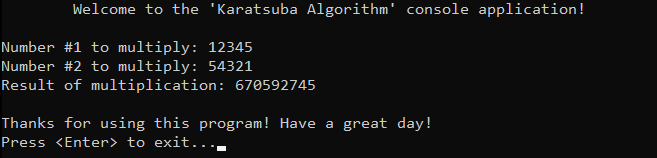
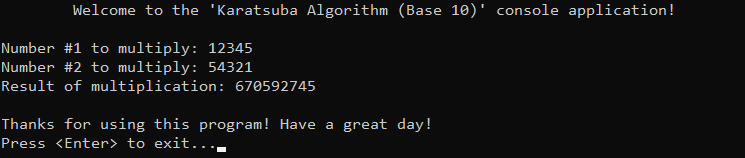
Add in 'KaratsubaAlgorithm': walkthrough, base 10 mention.

diff --git a/Algorithms/DivideAndConquer/KaratsubaAlgorithm/Source/Main.cpp b/Algorithms/DivideAndConquer/KaratsubaAlgorithm/Source/Main.cpp
@@ -1,4 +1,4 @@
-// Karatsuba Algorithm
+// Karatsuba Algorithm (Base 10)
 // by vezzolter
 // September 16, 2024
 //
@@ -13,7 +13,7 @@
 
 int main() {
 	// Greet
-	std::cout << "\tWelcome to the 'Karatsuba Algorithm' console application!\n\n";
+	std::cout << "\tWelcome to the 'Karatsuba Algorithm (Base 10)' console application!\n\n";
 
 	// Specify numbers
 	std::cout << "Number #1 to multiply: ";

diff --git a/Algorithms/DivideAndConquer/KaratsubaAlgorithm/Include/KaratsubaAlgorithm.h b/Algorithms/DivideAndConquer/KaratsubaAlgorithm/Include/KaratsubaAlgorithm.h
@@ -1,4 +1,4 @@
-// Header file for Karatsuba algorithm
+// Header file for Karatsuba algorithm (Base 10)
 // by vezzolter
 // September 16, 2024
 

diff --git a/Algorithms/DivideAndConquer/KaratsubaAlgorithm/Source/KaratsubaAlgorithm.cpp b/Algorithms/DivideAndConquer/KaratsubaAlgorithm/Source/KaratsubaAlgorithm.cpp
@@ -1,4 +1,4 @@
-// Source file for Karatsuba algorithm
+// Source file for Karatsuba algorithm (Base 10)
 // by vezzolter
 // September 16, 2024
 

diff --git a/Algorithms/DivideAndConquer/KaratsubaAlgorithm/KaratsubaAlgorithm.md b/Algorithms/DivideAndConquer/KaratsubaAlgorithm/KaratsubaAlgorithm.md
@@ -2,7 +2,7 @@
 - [💡 Overview](#-overview)
   - [Introduction](#introduction)
   - [Important Details](#important-details)
-  - [Algorithm Steps](#algorithm-steps)
+  - [Algorithm Steps (Base 10)](#algorithm-steps-base-10)
 - [💻 Implementation](#-implementation)
   - [Design Decisions](#design-decisions)
   - [Complete Implementation](#complete-implementation)
@@ -33,9 +33,10 @@ The **Karatsuba Algorithm** is a multiplication algorithm, known for reducing th
 
 ## Important Details
 1. While Karatsuba is efficient for large numbers, for very large numbers (beyond the capacity of built-in data types), arbitrary precision arithmetic is required to handle numbers with thousands of digits by dynamically managing memory. Alternatively, more advanced algorithms like Schönhage–Strassen may be used for even greater efficiency.
+2. The Karatsuba algorithm can be implemented using different bases, such as binary or decimal, depending on the representation of the numbers. The choice of base primarily affects how the numbers are shifted, although core idea remains. Naturally computers do better those operations via binary, but to illustrate the concept decimal is preferred.
 
 
-## Algorithm Steps
+## Algorithm Steps (Base 10)
 1. If either number (`a` or `b`) is less than 10, return the result of their direct multiplication ($a×b$).
 2. Calculate the number of digits in the larger number and divide it by $2$ to determine where to split the numbers.
 3. Divide both initial numbers (`a` or `b`) into higher-order and lower-order halves via previously computed half.
@@ -50,12 +51,13 @@ The **Karatsuba Algorithm** is a multiplication algorithm, known for reducing th
 
 
 # &#x1F4BB; Implementation
-The program prompts the user to enter two numbers, multiplies them using the Karatsuba Algorithm, and displays the result.
+The program prompts the user to enter two numbers in base $10$, multiplies them using the Karatsuba Algorithm, and displays the result.
 <p align="center"><img src="./Images/Demonstration.png"/></p>
 
 
 ## Design Decisions
 To prioritize simplicity and emphasize algorithm itself, several design decisions were made:
+- Opting for a base $10$ representation of numbers
 - Using the highest possible built-in data type, `unsigned long long`.
 - Limiting the operation only to positive numbers.
 - Assuming valid input values from the user.
@@ -87,7 +89,32 @@ unsigned long long karatsuba(unsigned long long a, unsigned long long b) {
 
 
 ## Detailed Walkthrough 
-Currently in Progress...
+1. The process begins by calling the `karatsuba()` function with two large numbers `a` and `b`. If either number is less than $10$, the algorithm performs the multiplication directly and returns the result. This is the base case of the recursion, which ensures that the numbers are small enough to be multiplied directly.
+```cpp
+  if (a < 10 || b < 10) { return a * b; }
+```
+2. To split the numbers, the algorithm first calculates the number of digits in the larger number, then divides this by 2 to determine the halfway point. This ensures the numbers are split evenly into high-order and low-order halves, allowing the algorithm to handle different-sized inputs uniformly during the recursive breakdown.
+```cpp
+	int digitsInLarger = (countDigits(a) > countDigits(b)) ? countDigits(a) : countDigits(b);
+	int half = digitsInLarger / 2;
+```
+3. Then, both numbers `a` and `b` are now split into their high-order and low-order halves. The high-order half is obtained by dividing the number by $base^{half}$ (base in our case is $10$), which shifts the decimal point left, leaving only the more significant digits. The low-order half is found using the modulo operation, which gives the remainder when dividing by $base^{half}$, effectively isolating the less significant digits.
+```cpp
+	unsigned long long aHighHalf = a / (unsigned long long)pow(10, half); // 123456 / 10^3 = 123
+	unsigned long long aLowHalf = a % (unsigned long long)pow(10, half); // 123456 % 10^3 = 456
+	unsigned long long bHighHalf = b / (unsigned long long)pow(10, half);
+	unsigned long long bLowHalf = b % (unsigned long long)pow(10, half);
+```
+4. The algorithm recursively calculates three key products: `lowPart` and `highPart`, which are the products of the respective halves, and `crossPart`, which is the core of this algorithm. When we expand the brackets, one multiplication produces two required pairs and two redundant ones, which are subtracted to make the equation correct. This approach helps avoid performing four multiplications. In the code implementation, instead of directly multiplying these parts as in traditional multiplication, the algorithm recursively calls itself for each smaller part. This recursive breakdown continues until the numbers are small enough to be multiplied directly (typically, single digits), at which point the actual multiplications are performed. This recursive process is what enables the Karatsuba algorithm to maintain its divide-and-conquer efficiency.
+```cpp
+	unsigned long long lowPart = karatsuba(aLowHalf, bLowHalf);
+	unsigned long long crossPart = karatsuba((aLowHalf + aHighHalf), (bLowHalf + bHighHalf));
+	unsigned long long highPart = karatsuba(aHighHalf, bHighHalf);
+```
+5. After recursively calculating the three parts, the final result is assembled using Karatsuba’s formula. The `highPart` is shifted to the left, placing it in the most significant digits of the final product, by analogue the `crossPart` is shifted into the middle, and `lowPart` is added as-is, as it already represent the least significant digits. As mentioned in the previous step, after expanding the parentheses, we subtract the redundant products from `crossPart` to ensure the equation is correct.
+```cpp
+	return highPart * pow(10, 2 * half) + (crossPart - highPart - lowPart) * pow(10, half) + lowPart;
+```
 
 
 
